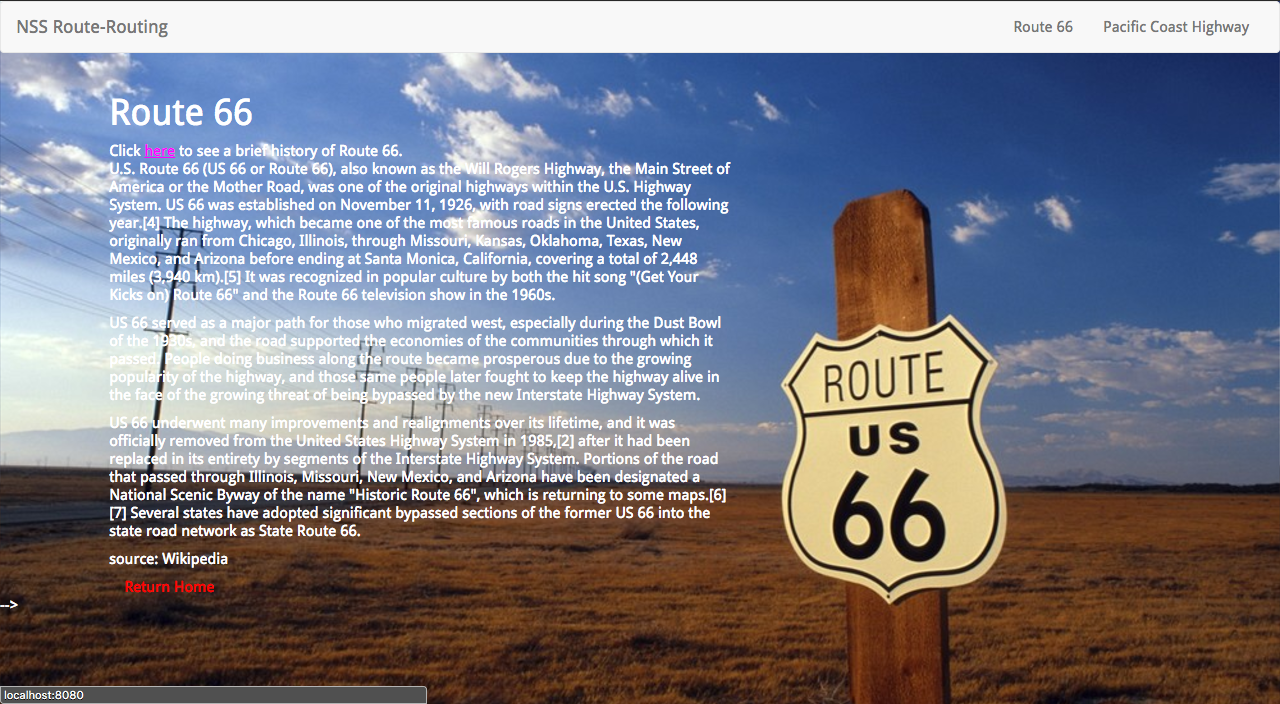
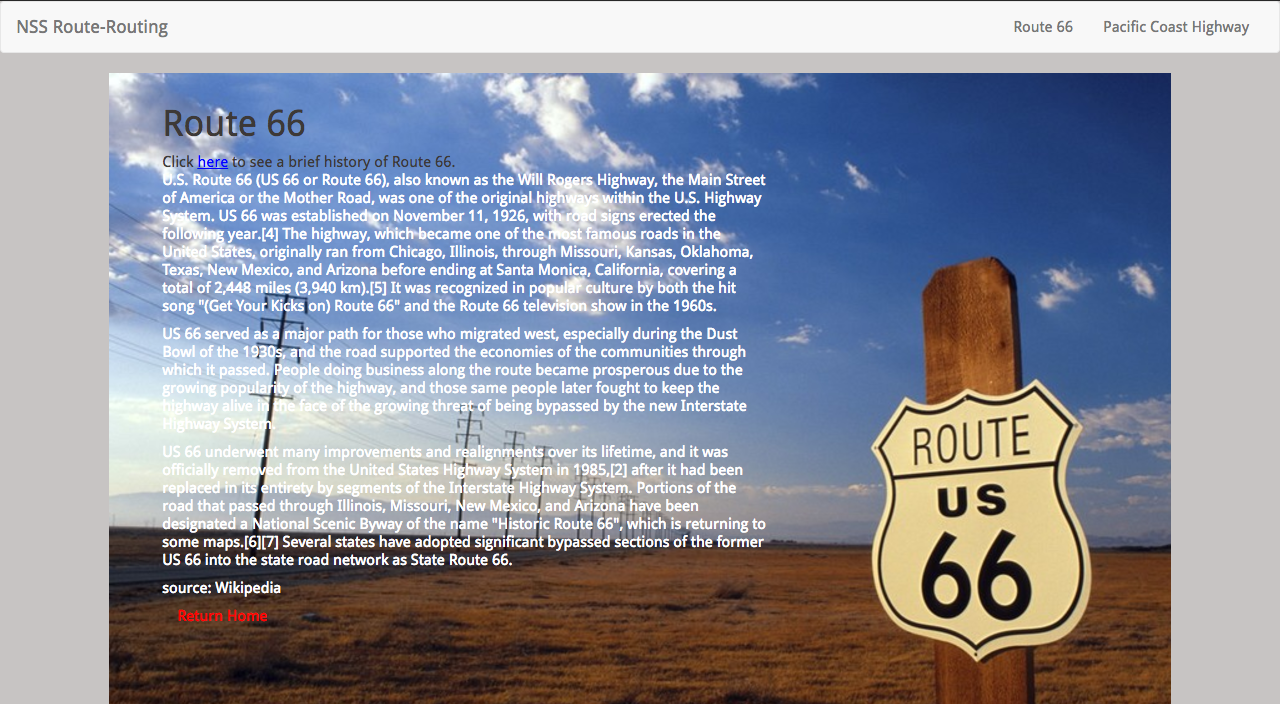
final styling; cleaned code

diff --git a/partials/pacCoastHwy.html b/partials/pacCoastHwy.html
@@ -5,7 +5,7 @@
 		Click <a href="" ng-click="showDescription()">here</a> to see a brief history of {{highwayName}}. 
 	</div>
 
-	<div ng-show="highwayDescription" class="highwayDescription">
+	<div ng-show="highwayDescription" class="highwayDescription pacCoast">
 		<p>State Route 1 (SR 1) is a major north-south state highway that runs along most of the Pacific coastline of the U.S. state of California. At a total of just over 655.8 miles (1,055.4 km), it is the longest state route in California. Highway 1 has several portions designated as either Pacific Coast Highway (PCH), Cabrillo Highway, Shoreline Highway, or Coast Highway. Its southern terminus is at Interstate 5 (I-5) near Dana Point in Orange County and its northern terminus is at U.S. Highway 101 (US 101) near Leggett in Mendocino County. Highway 1 also at times runs concurrently with US 101, most notably through a 54-mile (87 km) stretch in Ventura and Santa Barbara counties, and across the Golden Gate Bridge.</p>
 
 		<p>The highway is designated as an All-American Road. In addition to providing a scenic route to numerous attractions along the coast, the route also serves as a major thoroughfare in the Greater Los Angeles Area, the San Francisco Bay Area, and several other coastal urban areas.</p>

diff --git a/index.html b/index.html
@@ -36,10 +36,11 @@
 
 	<!-- personal scripts -->
   <script type="text/javascript" src="./javascripts/app.js"></script>
-  <script type="text/javascript" src="./javascripts/AppConfig.js"></script>-->
+  <script type="text/javascript" src="./javascripts/AppConfig.js"></script>
   <script type="text/javascript" src="./javascripts/controllers/HomeCtrl.js"></script>
   <script type="text/javascript" src="./javascripts/controllers/Route66Ctrl.js"></script>
   <script type="text/javascript" src="./javascripts/controllers/PacCoastHwyCtrl.js"></script>
   <script type="text/javascript" src="./javascripts/controllers/NavCtrl.js"></script>
 </body>
 </html>
+

diff --git a/styles/main.css b/styles/main.css
@@ -1,7 +1,7 @@
 body {
   background-size: cover;
   background-color: #C7C4C3;
-  color: #FFF;
+  color: #3D3937;
   font: 100% "Droid Sans", sans-serif;
   font-size: 1.5em; }
 
@@ -18,7 +18,8 @@ div.divImage {
     margin-left: 5%; }
   div.divImage .highwayDescription {
     margin-left: 5%;
-    margin-right: 38%; }
+    margin-right: 38%;
+    color: #FFF; }
   div.divImage .highwayPage {
     margin-left: 5%; }
 

diff --git a/sass/main.scss b/sass/main.scss
@@ -4,9 +4,8 @@
 
 body {
 	background-size: cover;
-	// background-image: url("/images/route 66.jpeg");
 	background-color: $lightbrown;
-	color: $white;
+	color: $darkbrown;
 	font: 100% $font-stack;
 	font-size: 1.5em;
 }
@@ -32,6 +31,7 @@ div.divImage {
 	.highwayDescription {
 		margin-left: 5%;
 		margin-right: 38%;
+		color: $white;
 	}
 
 	.highwayPage {

diff --git a/partials/home.html b/partials/home.html
@@ -1,9 +1,9 @@
 <div class="homePage">
 	<h1 class="homeHeader">Famous Highways</h1>
-	<div class="col-xs-6">
+	<div class="col-xs-2">
 		<a href="#!/Route66">Route 66</a>
 	</div>
-	<div class="col-xs-6">
+	<div class="col-xs-2">
 		<a href="#!/PacificCoastHwy">Pacific Coast Highway</a>
 	</div>
 </div>
